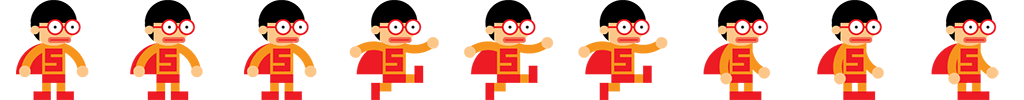
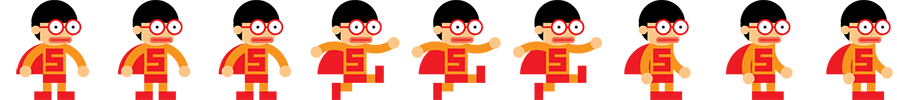
toque
pequeno

diff --git a/js/geral.js b/js/geral.js
@@ -1,5 +1,6 @@
 $(document).ready(function(){
 	
+
 $tamanhoView = screen.height;
 
 
@@ -181,7 +182,7 @@ function correr(valor){
 	
 	if($countCorre<=13){
 		//tamanho dos frames
-		var $n = -200
+		var $n = -100
 		if (valor) {
 			$("#juca").css("background-image", "url(img/juca3p.png)");
 			setInterval(function(){$("#juca").css("backgroundPositionX",""+$n*$countCorre+"px")},200);
@@ -278,7 +279,11 @@ $(document).scroll(function(){
 	animeScroll();
 });
 
-	
+		$(document).on("touchend",function(){
+			
+			$("#camada-horizontal-1.animar").css('left',"-"+$ultimaPosicaoScroll+'px');
+
+	});
 //xxxxxxxxxxxxxxxxxxxxxxxxxxxxxxxxxxxxxxxxxxxxxxxxxxxxxxxxxxxxxxxxxxxxxxxxxxxxxxxxxxxxxxxxxxxxxxxx fim pegar posição do scroll
 
 });
